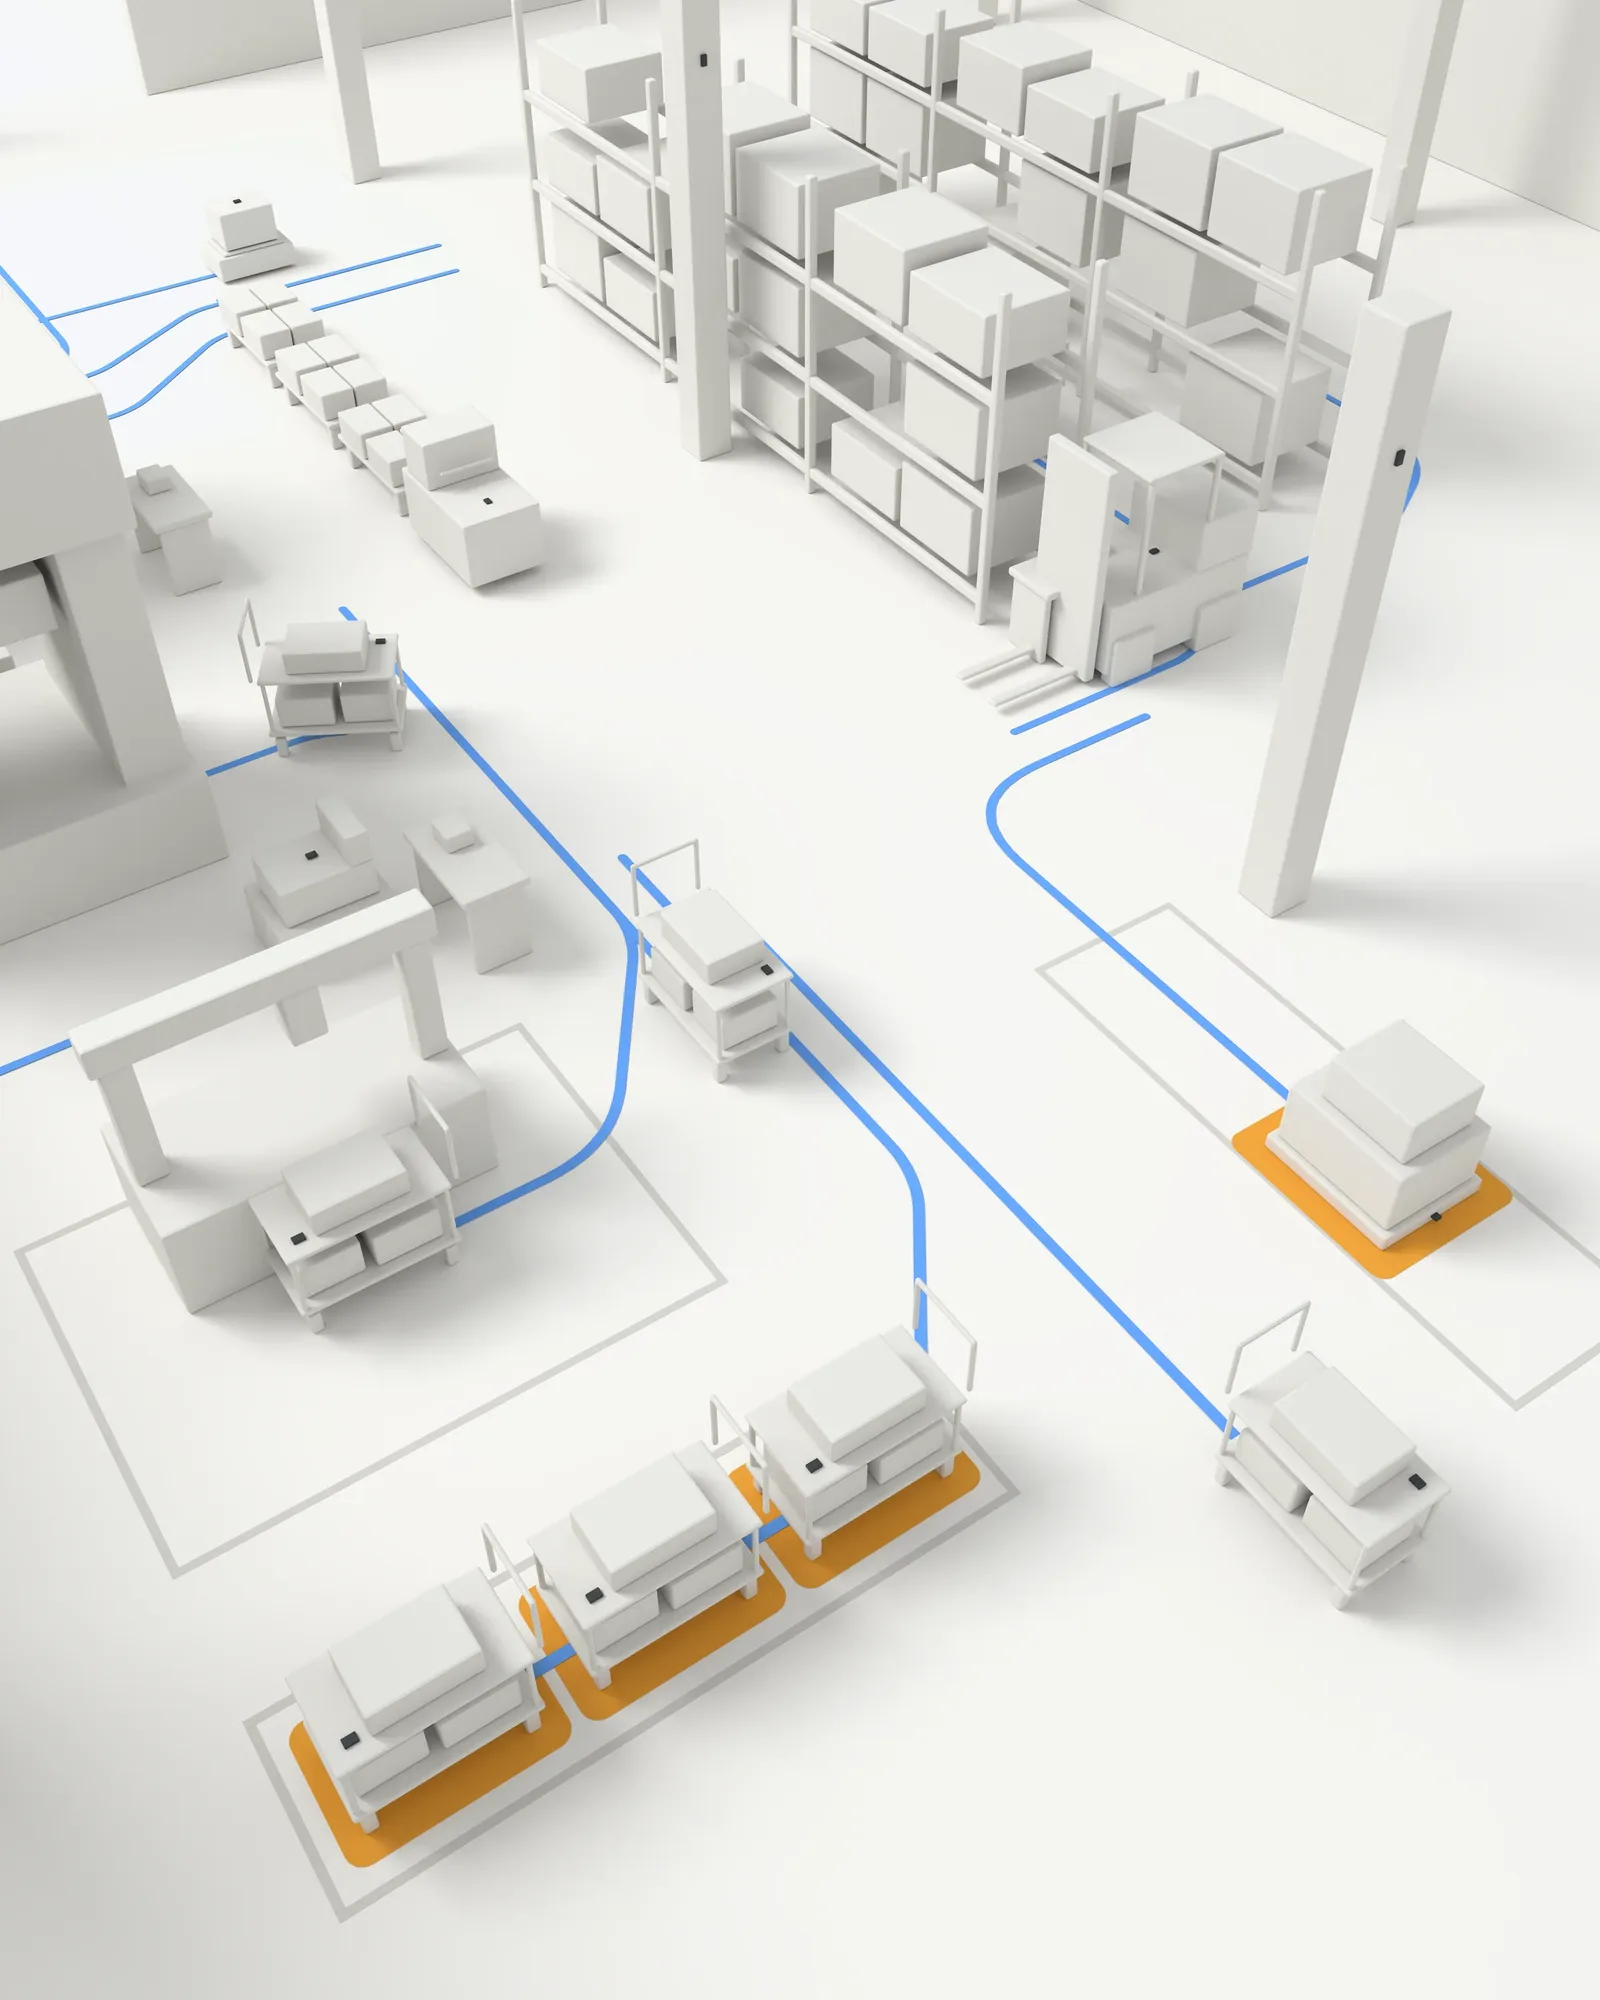
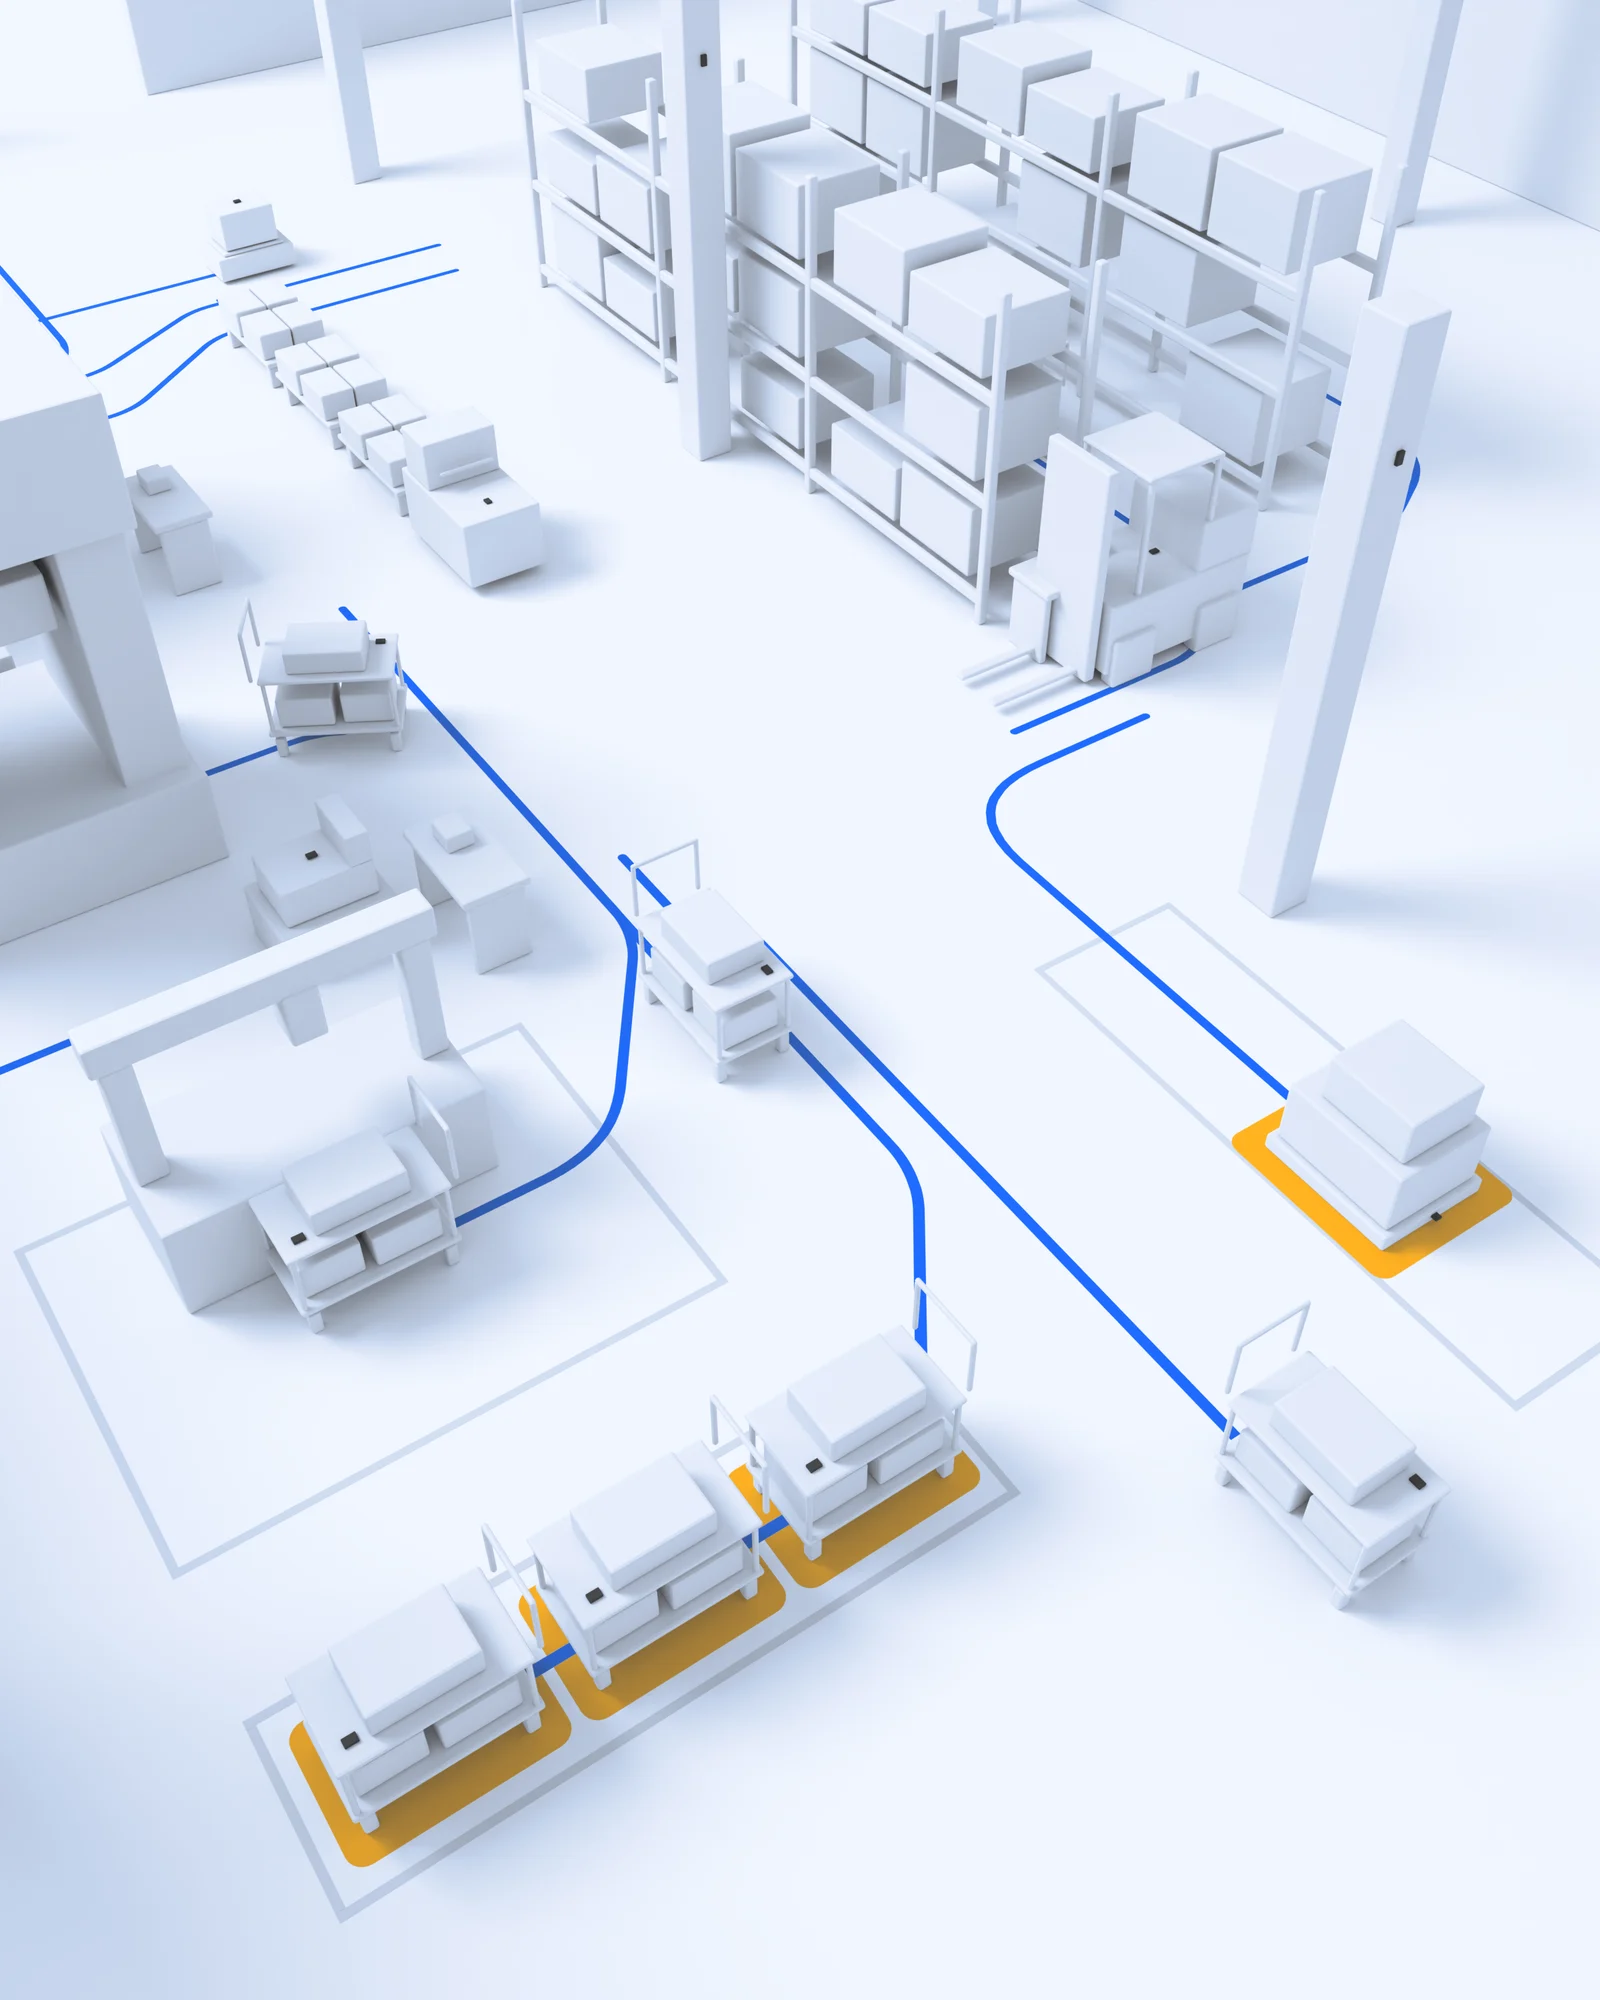
Studio: film uses the team's clean cool plates and masks; panel and fog cooled to match
Claude-Session: https://claude.ai/code/session_01YEydMMeCcwz4cL6LntBVLn

diff --git a/studio/v1/css/studio.css b/studio/v1/css/studio.css
@@ -112,7 +112,7 @@ h3{font:600 clamp(1.4rem,1.1rem + .9vw,2.2rem)/1.1 var(--display);letter-spacing
 /* ---------- floor (sticky shader) ---------- */
 .floor{height:320vh;position:relative}
 .bay{height:220vh;position:relative}
-.floor-sticky,.bay-sticky{position:sticky;top:0;height:100svh;overflow:hidden;background:#f3f2ee}
+.floor-sticky,.bay-sticky{position:sticky;top:0;height:100svh;overflow:hidden;background:#eef3fb}
 .floor-media{position:absolute;inset:0}
 .floor-poster,.floor-gl{position:absolute;inset:0;width:100%;height:100%;object-fit:cover}
 .floor-gl{opacity:0;transition:opacity .8s}
@@ -127,14 +127,14 @@ h3{font:600 clamp(1.4rem,1.1rem + .9vw,2.2rem)/1.1 var(--display);letter-spacing
 .meter i{display:block;height:100%;background:var(--located);transform-origin:0;transform:scaleX(0)}
 .hint{margin-top:14px;font-size:.85rem;color:var(--ink-soft)}
 @media (hover:none){.hint{display:none}}
-.floor-copy::before{content:"";position:absolute;inset:-60px -80px -60px -200px;background:radial-gradient(closest-side,rgba(243,242,238,.92),rgba(243,242,238,0));z-index:-1}
+.floor-copy::before{content:"";position:absolute;inset:-60px -80px -60px -200px;background:radial-gradient(closest-side,rgba(238,243,251,.92),rgba(238,243,251,0));z-index:-1}
 .bay-title{position:absolute;left:var(--m);top:calc(var(--bar) + 4vh);margin:0}
 
 /* ---------- screens ---------- */
 .screen{padding:clamp(96px,13vw,240px) 0;position:relative}
 .two{display:grid;grid-template-columns:minmax(0,1fr) minmax(0,1fr);gap:clamp(32px,6vw,140px);align-items:center}
 .find .h2{margin-bottom:clamp(28px,3vw,48px)}
-.pic{position:relative;overflow:hidden;border-radius:clamp(12px,1.2vw,22px);background:#f3f2ee;aspect-ratio:4/5;box-shadow:0 40px 80px -40px rgba(11,18,56,.25)}
+.pic{position:relative;overflow:hidden;border-radius:clamp(12px,1.2vw,22px);background:#eef3fb;aspect-ratio:4/5;box-shadow:0 40px 80px -40px rgba(11,18,56,.25)}
 .pic-inner{position:absolute;inset:-8% 0;will-change:transform}
 .pic img{width:100%;height:100%;object-fit:cover}
 .pic-find img{object-position:62% 44%;transform:scale(1.9);transform-origin:56% 46%}
@@ -144,10 +144,10 @@ h3{font:600 clamp(1.4rem,1.1rem + .9vw,2.2rem)/1.1 var(--display);letter-spacing
 .waits .two{align-items:start}
 
 /* ask */
-.ask{background:#f3f2ee;overflow:hidden;min-height:100svh;display:flex;align-items:center}
+.ask{background:#eef3fb;overflow:hidden;min-height:100svh;display:flex;align-items:center}
 .ask-bg{position:absolute;inset:0}
 .ask-bg img{width:100%;height:100%;object-fit:cover;object-position:30% 70%;opacity:.95}
-.ask-bg::after{content:"";position:absolute;inset:0;background:linear-gradient(180deg,rgba(243,242,238,.96) 0,rgba(243,242,238,.82) 45%,rgba(243,242,238,.55) 100%)}
+.ask-bg::after{content:"";position:absolute;inset:0;background:linear-gradient(180deg,rgba(238,243,251,.96) 0,rgba(238,243,251,.82) 45%,rgba(238,243,251,.55) 100%)}
 .ask-inner{position:relative;width:100%}
 .question{font:600 clamp(1.9rem,1rem + 3.8vw,6.2rem)/1 var(--display);letter-spacing:-.045em;color:var(--ink);max-width:16em;margin:clamp(32px,4vw,64px) 0;min-height:2em}
 .question .q-text{background:linear-gradient(transparent 62%,rgba(255,176,32,.35) 62%);background-size:0 100%;background-repeat:no-repeat;transition:background-size 1.2s var(--ease)}
@@ -223,9 +223,9 @@ h3{font:600 clamp(1.4rem,1.1rem + .9vw,2.2rem)/1.1 var(--display);letter-spacing
 
 /* ---------- story film ---------- */
 .story{height:900vh;position:relative}
-.story-sticky{position:sticky;top:0;height:100svh;overflow:hidden;background:#f3f2ee}
+.story-sticky{position:sticky;top:0;height:100svh;overflow:hidden;background:#eef3fb}
 .caps{position:absolute;left:var(--m);right:var(--m);bottom:clamp(36px,8vh,96px);pointer-events:none}
-.caps::before{content:"";position:absolute;left:-20vw;right:30vw;bottom:-14vh;height:70vh;background:radial-gradient(60% 60% at 30% 70%,rgba(243,242,238,.94),rgba(243,242,238,0));z-index:-1}
+.caps::before{content:"";position:absolute;left:-20vw;right:30vw;bottom:-14vh;height:70vh;background:radial-gradient(60% 60% at 30% 70%,rgba(238,243,251,.94),rgba(238,243,251,0));z-index:-1}
 .cap{position:absolute;left:0;bottom:0;max-width:min(980px,92vw)}
 .cap .h2{font-size:clamp(2.1rem,1rem + 3.6vw,6rem);line-height:.98}
 .cap p{margin-top:clamp(14px,1.6vw,24px);font-size:clamp(1.05rem,.9rem + .5vw,1.6rem);color:var(--ink-soft);max-width:30em;opacity:0;transform:translateY(16px);transition:opacity .6s var(--ease),transform .8s var(--ease-out)}
@@ -238,7 +238,7 @@ h3{font:600 clamp(1.4rem,1.1rem + .9vw,2.2rem)/1.1 var(--display);letter-spacing
 .cap em{color:var(--action)}
 .rail{position:absolute;right:var(--m);top:50%;height:28vh;width:2px;transform:translateY(-50%);background:rgba(11,18,56,.12)}
 .rail i{display:block;height:100%;background:var(--located);transform-origin:0 0;transform:scaleY(0)}
-@media (max-width:900px){.caps::before{left:-10vw;right:-10vw;height:62vh;bottom:-10vh;background:linear-gradient(180deg,rgba(243,242,238,0),rgba(243,242,238,.92) 38%,rgba(243,242,238,.97))}.rail{right:12px}}
+@media (max-width:900px){.caps::before{left:-10vw;right:-10vw;height:62vh;bottom:-10vh;background:linear-gradient(180deg,rgba(238,243,251,0),rgba(238,243,251,.92) 38%,rgba(238,243,251,.97))}.rail{right:12px}}
 @media (prefers-reduced-motion:reduce){.story{height:auto}.story-sticky{position:relative}.cap{position:relative;margin-top:24px}.cap p,.cap .ln>span{opacity:1;transform:none}}
 
 /* ================= v3 polish ================= */
@@ -256,7 +256,7 @@ p{text-wrap:pretty}
 /* three ideas */
 .ideas{padding-top:clamp(120px,14vw,260px)}
 .cards{display:grid;grid-template-columns:repeat(3,minmax(0,1fr));gap:clamp(16px,2vw,36px);align-items:start}
-.card-pic{position:relative;aspect-ratio:4/5;border-radius:clamp(14px,1.4vw,24px);overflow:hidden;background:#f3f2ee;margin-bottom:clamp(20px,2vw,32px);isolation:isolate;box-shadow:0 1px 0 rgba(11,18,56,.04),0 30px 60px -36px rgba(11,18,56,.28)}
+.card-pic{position:relative;aspect-ratio:4/5;border-radius:clamp(14px,1.4vw,24px);overflow:hidden;background:#eef3fb;margin-bottom:clamp(20px,2vw,32px);isolation:isolate;box-shadow:0 1px 0 rgba(11,18,56,.04),0 30px 60px -36px rgba(11,18,56,.28)}
 .card-pic img{position:absolute;inset:0;width:100%;height:100%;object-fit:cover;object-position:var(--x) var(--y);transform-origin:var(--x) var(--y);transform:translateY(var(--py,0)) scale(var(--z));transition:transform 1.4s var(--ease-out)}
 .card:hover .card-pic img{transform:translateY(var(--py,0)) scale(calc(var(--z) * 1.06))}
 .card-pic::after{content:"";position:absolute;inset:0;border-radius:inherit;box-shadow:inset 0 0 0 1px rgba(11,18,56,.06);pointer-events:none}
@@ -330,7 +330,7 @@ em{font-style:normal}
 .floor-hud{position:absolute;inset:0;width:100%;height:100%;pointer-events:none}
 @media (min-width:901px){
   .story-sticky{background:var(--ground,#f0f6ff)}
-  .story .floor-media{left:41vw;right:var(--m);top:calc(var(--bar) + 14px);bottom:clamp(18px,3vh,32px);border-radius:28px;overflow:hidden;background:#f3f2ee;box-shadow:0 30px 80px -40px rgba(11,18,56,.35),0 0 0 1px rgba(11,18,56,.06)}
+  .story .floor-media{left:41vw;right:var(--m);top:calc(var(--bar) + 14px);bottom:clamp(18px,3vh,32px);border-radius:28px;overflow:hidden;background:#eef3fb;box-shadow:0 30px 80px -40px rgba(11,18,56,.35),0 0 0 1px rgba(11,18,56,.06)}
   .caps{left:var(--m);right:auto;width:calc(41vw - var(--m) - clamp(24px,3vw,56px));top:calc(var(--bar) + 14px);bottom:clamp(18px,3vh,32px)}
   .caps::before{display:none}
   .cap{top:50%;bottom:auto;transform:translateY(-50%);max-width:none}
@@ -343,7 +343,7 @@ em{font-style:normal}
   .rail a.on{transform:translateY(-3px)}
 }
 @media (max-width:900px){
-  .story .floor-media{top:calc(var(--bar) + 6px);left:12px;right:12px;bottom:auto;height:58svh;border-radius:22px;overflow:hidden;background:#f3f2ee}
+  .story .floor-media{top:calc(var(--bar) + 6px);left:12px;right:12px;bottom:auto;height:58svh;border-radius:22px;overflow:hidden;background:#eef3fb}
   .story-sticky{background:var(--ground,#f0f6ff)}
   .story .floor-media{height:52svh}
   .caps{top:calc(var(--bar) + 52svh + 22px);bottom:auto}

diff --git a/studio/v1/js/story.js b/studio/v1/js/story.js
@@ -173,7 +173,7 @@ function drawHUD(x, p, t, cx, cy, z, span) {
     const kf = clamp((p - .25) / .04);
     if (kf > 0) {
       x.save(); x.globalAlpha = a * kf;
-      const g = x.createRadialGradient(TX, TY, 0, TX, TY, 120 * s); g.addColorStop(0, 'rgba(243,242,238,.8)'); g.addColorStop(.6, 'rgba(243,242,238,.4)'); g.addColorStop(1, 'rgba(243,242,238,0)'); x.fillStyle = g; x.fillRect(TX - 130 * s, TY - 130 * s, 260 * s, 260 * s);
+      const g = x.createRadialGradient(TX, TY, 0, TX, TY, 120 * s); g.addColorStop(0, 'rgba(238,243,251,.8)'); g.addColorStop(.6, 'rgba(238,243,251,.4)'); g.addColorStop(1, 'rgba(238,243,251,0)'); x.fillStyle = g; x.fillRect(TX - 130 * s, TY - 130 * s, 260 * s, 260 * s);
       [[.481, .484], [.6, .39], [.3, .6]].forEach(([u, v], i) => {
         const [X, Y] = P(u, v), ph = (t * .45 + i / 3) % 1, br = Math.sin(ph * 3.1416);
         x.globalAlpha = a * kf * (.4 + .6 * br); x.strokeStyle = `rgba(${INK},.85)`; x.lineWidth = 2 * s; x.setLineDash([3 * s, 6 * s]); x.lineDashOffset = -t * 10;
